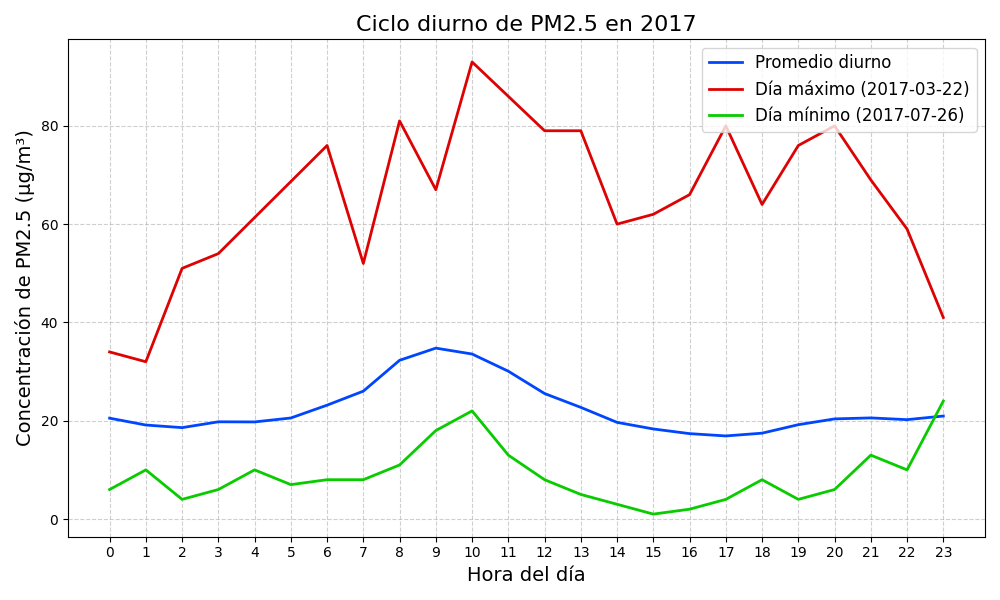
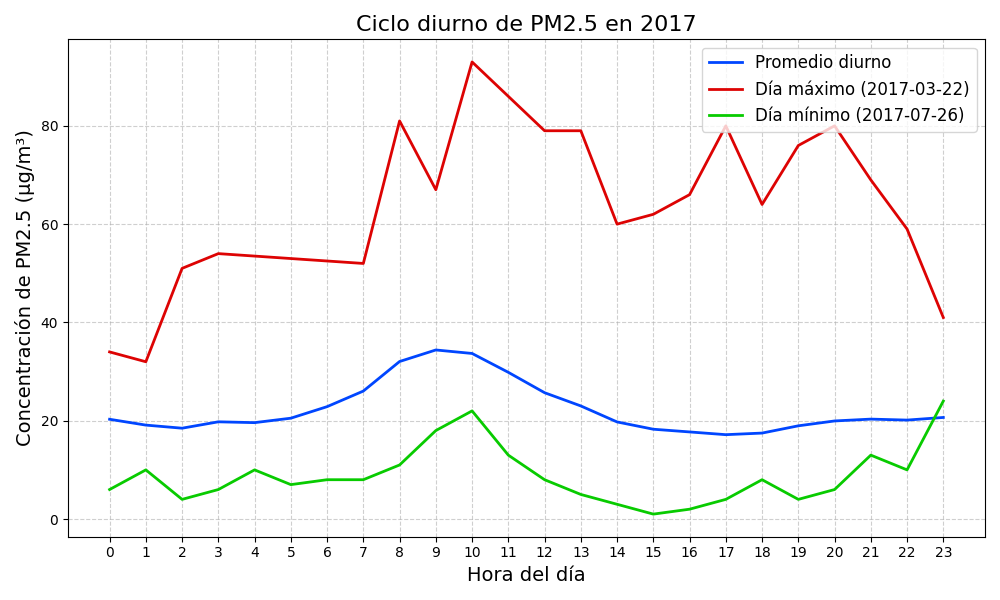
[UPDATE]

diff --git a/main.py b/main.py
@@ -62,17 +62,16 @@ for i in range(len(rutas)):
 
 
 #¿ Función para validar y limpiar los datos
-def validar_datos(parametro):
+def validar_datos(parametro, variable):
     """
     Itera sobre los meses, días y horas del año 2017 para:
-      - eliminar horas con flag 151 (inválidas)
-      - eliminar días con menos de 18 datos válidos
-    Implementa try/except para evitar KeyError cuando se intenta .loc con timestamps que no existen.
+      - asignar NaN en 'variable' cuando 'parametro' = 151 (inválidos)
+      - eliminar días con menos de 18 datos válidos en 'variable'
     """
     for mes in meses:
         mes_num = meses.index(mes) + 1
 
-        # Paso 1: eliminar horas con flag 151
+        # Paso 1: invalidar datos con flag 151
         for dia in range(1, dias_meses[meses.index(mes)] + 1):
             for hora in range(24):
                 fecha_inicio = f"2017-{mes_num:02d}-{dia:02d} {hora:02d}:00:00"
@@ -81,53 +80,34 @@ def validar_datos(parametro):
                 else:
                     fecha_fin = f"2017-{mes_num:02d}-{dia:02d} {hora+1:02d}:00:00"
                 try:
-                    # Puede devolver Series vacía si no hay datos en ese rango
                     serie_conteo = diccionario_data_frames[mes].loc[fecha_inicio:fecha_fin][parametro].value_counts()
                     if 151 in serie_conteo.index:
-                        diccionario_data_frames[mes].drop(
-                            diccionario_data_frames[mes].loc[fecha_inicio:fecha_fin].index,
-                            inplace=True
-                        )
+                        # En vez de borrar fila, asignamos NaN solo en la variable correspondiente
+                        diccionario_data_frames[mes].loc[fecha_inicio:fecha_fin, variable] = np.nan
                 except Exception:
-                    # ignorar cualquier problema
                     continue
 
-        # Paso 2: eliminar días con menos de 18 datos válidos
+        # Paso 2: eliminar días con menos de 18 datos válidos en esa variable
         try:
-            conteo_diario = diccionario_data_frames[mes].resample("D")[parametro].count()
+            conteo_diario = diccionario_data_frames[mes].resample("D")[variable].count()
         except Exception:
-            # Si no existe el parámetro en este mes o no hay datos, saltamos
             continue
 
         dias_invalidos = conteo_diario[conteo_diario < 18].index
         if len(dias_invalidos) == 0:
             continue
 
-        # Intento directo (puede fallar si esos timestamps exactos no están en el índice)
         try:
-            diccionario_data_frames[mes].drop(
-                diccionario_data_frames[mes].loc[dias_invalidos].index,
-                inplace=True
-            )
-        except KeyError:
-            # Fallback seguro: usar máscara por fecha normalizada (midnight) para borrar todas las filas del día
-            # normalize() convierte cualquier timestamp a la medianoche del mismo día -> permite comparar fecha a fecha
-            dias_norm = dias_invalidos.normalize()
-            idx_normalizado = diccionario_data_frames[mes].index.normalize()
-            mask = idx_normalizado.isin(dias_norm)
-            if mask.any():
-                diccionario_data_frames[mes].drop(diccionario_data_frames[mes].loc[mask].index, inplace=True)
-            # si mask.any() es False, no hay nada que borrar y seguimos
-
+            # Asignar NaN solo en la variable de esos días incompletos
+            mask = diccionario_data_frames[mes].index.normalize().isin(dias_invalidos.normalize())
+            diccionario_data_frames[mes].loc[mask, variable] = np.nan
         except Exception:
-            # Capturar otras excepciones inesperadas y continuar
             continue
 
-
 #¿ Llamada a la función para validar y limpiar los datos para el parámetro deseado
-validar_datos('calidad_pm25') #? Para calidad pm2.5
-validar_datos('calidad_pliquida_ssr') #? Para calidad de precipitación líquida
-#validar_datos('calidad_taire10_ssr') #? Para calidad de temperatura del aire a 10m
+validar_datos(parametro='calidad_pm25', variable='pm25') #? Para calidad pm2.5
+validar_datos(parametro='calidad_pliquida_ssr', variable='pliquida_ssr') #? Para calidad de precipitación líquida
+#validar_datos(parametro='calidad_taire10_ssr',variable='calidad_taire10_ssr') #? Para calidad de temperatura del aire a 10m
 
 
 #¿ Concatenar todos los DataFrames mensuales en uno anual y ordenar índice por fecha

diff --git a/README.md b/README.md
@@ -50,9 +50,8 @@ El objetivo es limpiar, validar y graficar los datos para identificar patrones d
 
 ---
 
-## 🎯 Objetivo
-- Detectar y eliminar valores inválidos en los datos de calidad del aire.
-- Evaluar excedencias respecto a las normativas ambientales.
+## 🎯 Objetivos
+- Detectar y reasignar valores inválidos en los datos de calidad del aire.
 - Visualizar patrones **diarios, mensuales y anuales** de concentración de PM2.5.
 - Relacionar la variabilidad del contaminante con la **precipitación semanal**.
 
